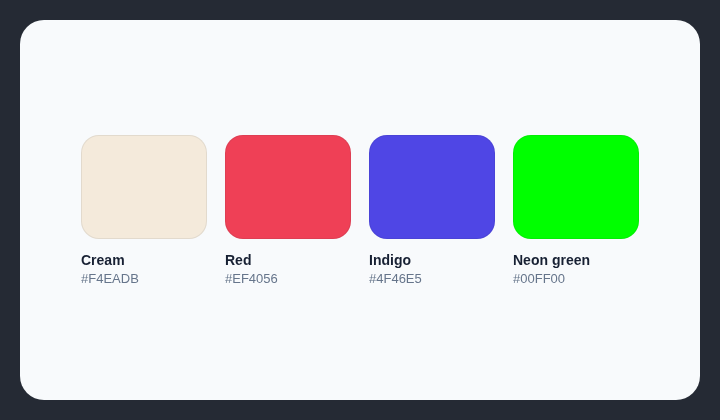
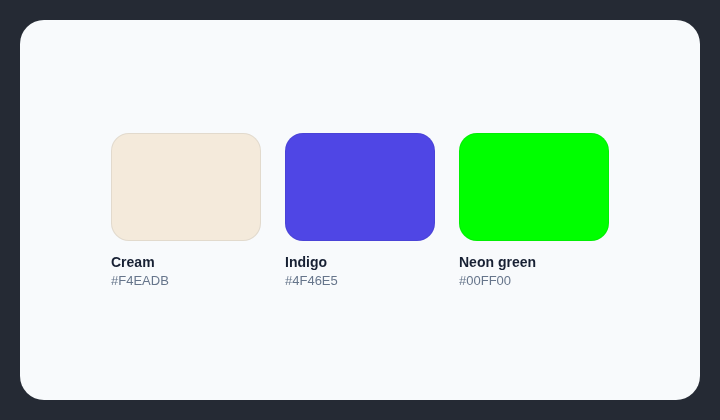
fix: remove red from AI color palette

Changed region(s): [[0.0917, 0.3095, 0.8861, 0.681]]

diff --git a/src/rules/ai-color-palette/index.ts b/src/rules/ai-color-palette/index.ts
@@ -31,11 +31,6 @@ const aiColorPalettes: Palette[] = [{
   ],
   utilities: ["amber-50", "orange-50", "yellow-50", "cream", "floralwhite", "linen", "oldlace"],
 }, {
-  name: "red",
-  colors: [{ red: 239, green: 64, blue: 86 }],
-  named: [],
-  utilities: [],
-}, {
   name: "indigo",
   colors: [{ red: 79, green: 70, blue: 229 }],
   named: [],

diff --git a/docs/rules/no-ai-color-palette.md b/docs/rules/no-ai-color-palette.md
@@ -2,11 +2,11 @@
 
 ![AI color palette example](./assets/no-ai-color-palette.png)
 
-Avoid color palettes that have become recognizable defaults in AI-generated interfaces. The current list contains cream colors, `#EF4056` red, `#4F46E5` indigo, and `#00FF00` neon green.
+Avoid color palettes that have become recognizable defaults in AI-generated interfaces. The current list contains cream colors, `#4F46E5` indigo, and `#00FF00` neon green.
 
 ## How it works
 
-Checks background colors against the known AI palette list in the rule. Cream is matched by hue, saturation, lightness, CSS names, and Tailwind utilities; `#EF4056`, `#4F46E5`, and `#00FF00` are matched exactly. CSS `lime` is also recognized.
+Checks background colors against the known AI palette list in the rule. Cream is matched by hue, saturation, lightness, CSS names, and Tailwind utilities; `#4F46E5` and `#00FF00` are matched exactly. CSS `lime` is also recognized.
 
 ## Scan support
 
